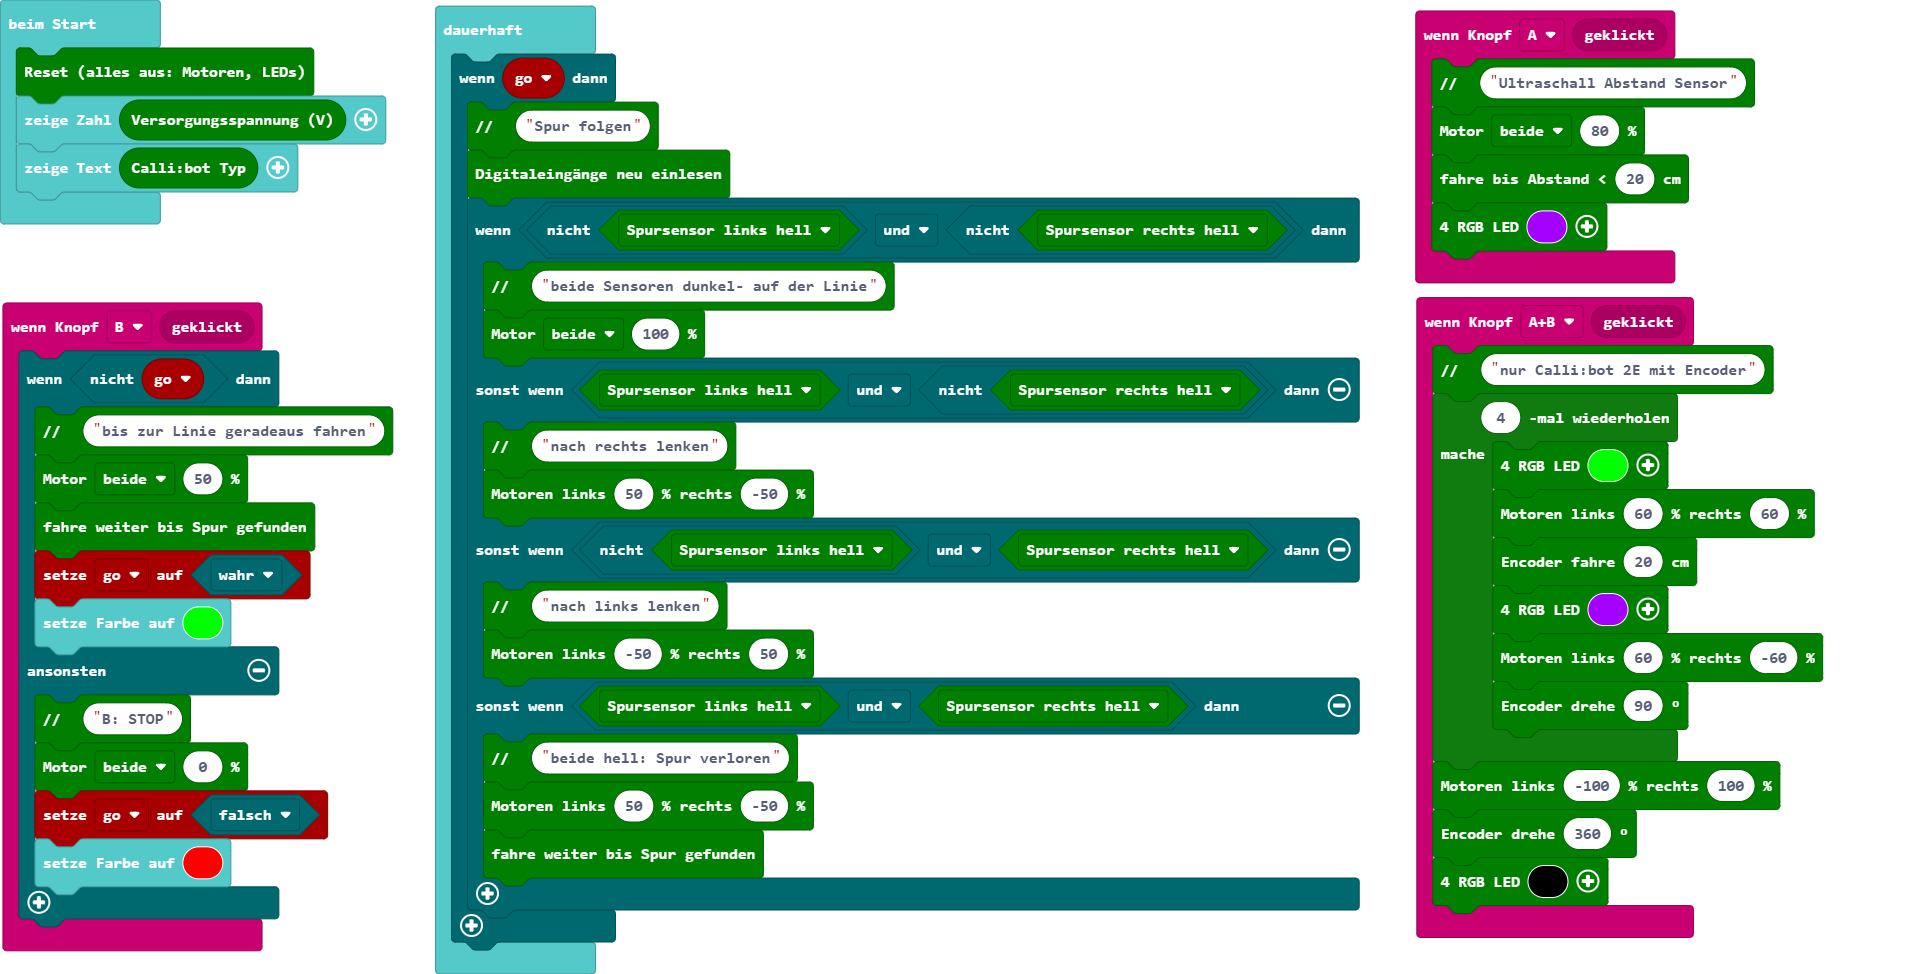
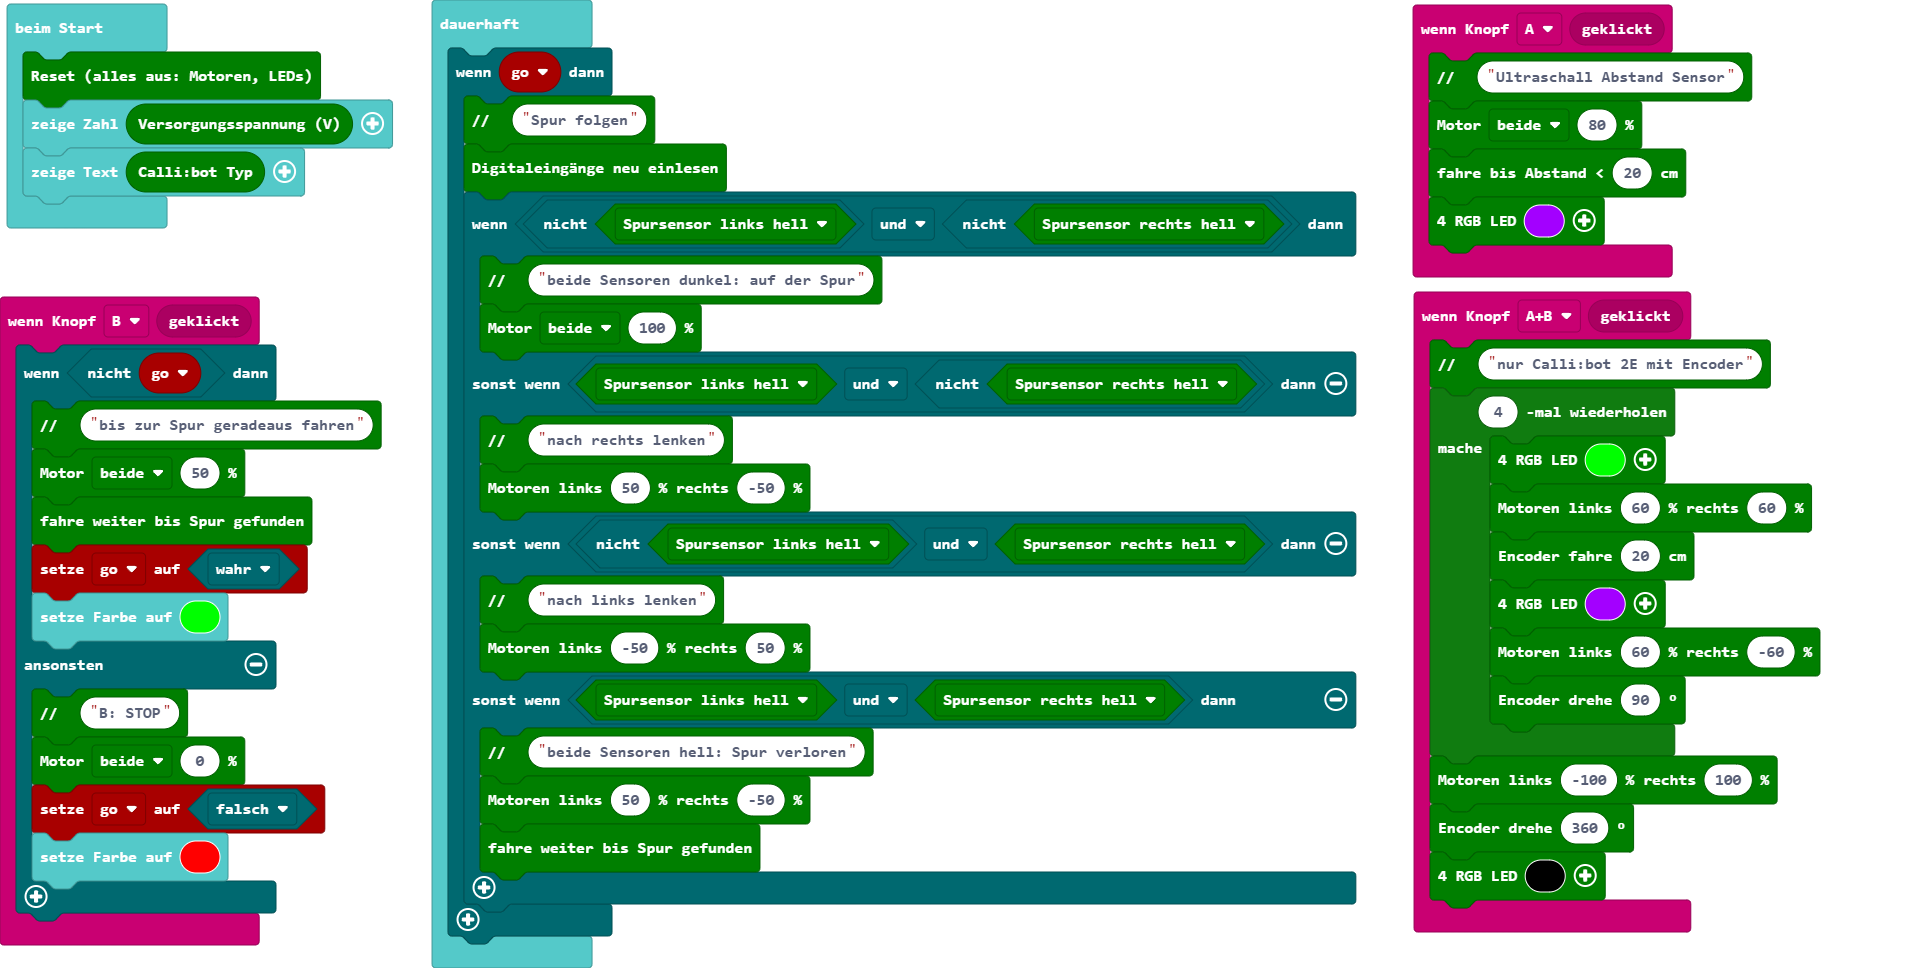
Aktualisiere main.blocks, main.ts

diff --git a/main.ts b/main.ts
@@ -20,7 +20,7 @@ input.onButtonEvent(Button.AB, input.buttonEventClick(), function () {
 })
 input.onButtonEvent(Button.B, input.buttonEventClick(), function () {
     if (!(go)) {
-        callibot2.comment("bis zur Linie geradeaus fahren")
+        callibot2.comment("bis zur Spur geradeaus fahren")
         callibot2.write_motor_prozent(callibot2.eMotor.beide, 50)
         callibot2.wait_spursensor()
         go = true
@@ -41,7 +41,7 @@ basic.forever(function () {
         callibot2.comment("Spur folgen")
         callibot2.read_inputs()
         if (!(callibot2.get_inputs(callibot2.eINPUTS.sp2l)) && !(callibot2.get_inputs(callibot2.eINPUTS.sp1r))) {
-            callibot2.comment("beide Sensoren dunkel- auf der Linie")
+            callibot2.comment("beide Sensoren dunkel: auf der Spur")
             callibot2.write_motor_prozent(callibot2.eMotor.beide, 100)
         } else if (callibot2.get_inputs(callibot2.eINPUTS.sp2l) && !(callibot2.get_inputs(callibot2.eINPUTS.sp1r))) {
             callibot2.comment("nach rechts lenken")
@@ -50,7 +50,7 @@ basic.forever(function () {
             callibot2.comment("nach links lenken")
             callibot2.write_motoren_prozent(-50, 50)
         } else if (callibot2.get_inputs(callibot2.eINPUTS.sp2l) && callibot2.get_inputs(callibot2.eINPUTS.sp1r)) {
-            callibot2.comment("beide hell: Spur verloren")
+            callibot2.comment("beide Sensoren hell: Spur verloren")
             callibot2.write_motoren_prozent(50, -50)
             callibot2.wait_spursensor()
         }
